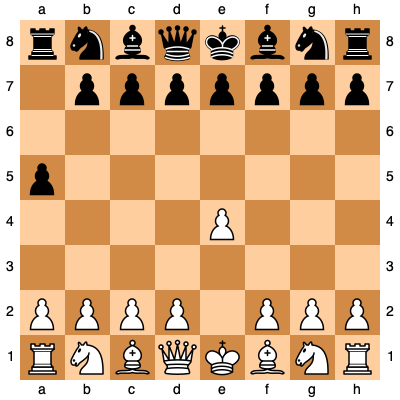
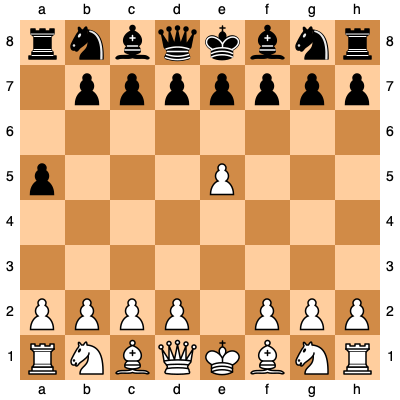
remove superfluous index.html SVG

Changed region(s): [[0.51, 0.39, 0.6, 0.6]]

diff --git a/MVP/test_board_render.py b/MVP/test_board_render.py
@@ -14,6 +14,7 @@ class TestBoardRender:
                 test_game = run_before_tests
                 test_game.execute_turn(6,4,4,4)
                 test_game.execute_turn(1,0,3,0)
+                test_game.execute_turn(4,4,3,4)
                 render = board_render.BoardRender(test_game)
                 draw_board = render.draw_board()
                 

diff --git a/MVP/board_render.py b/MVP/board_render.py
@@ -19,8 +19,6 @@ class BoardRender:
         def draw_board(self):
                 board = chess.Board(self.generate_fen())
                 img = chess.svg.board(board=board)
-                file = open("index.html", "w")
-                file.write(img)
                 self.write_svg_to_image(img)
 
 
